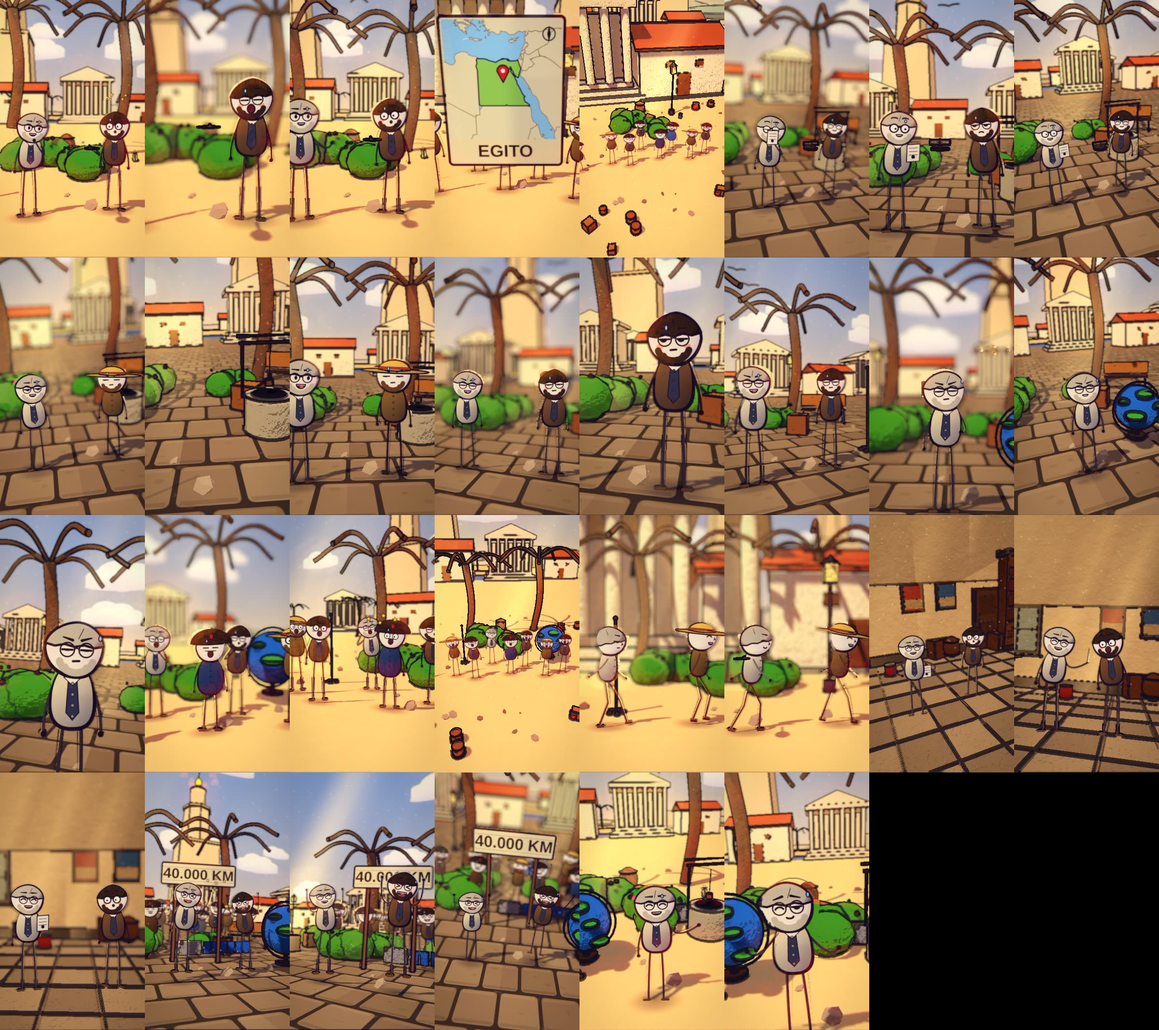
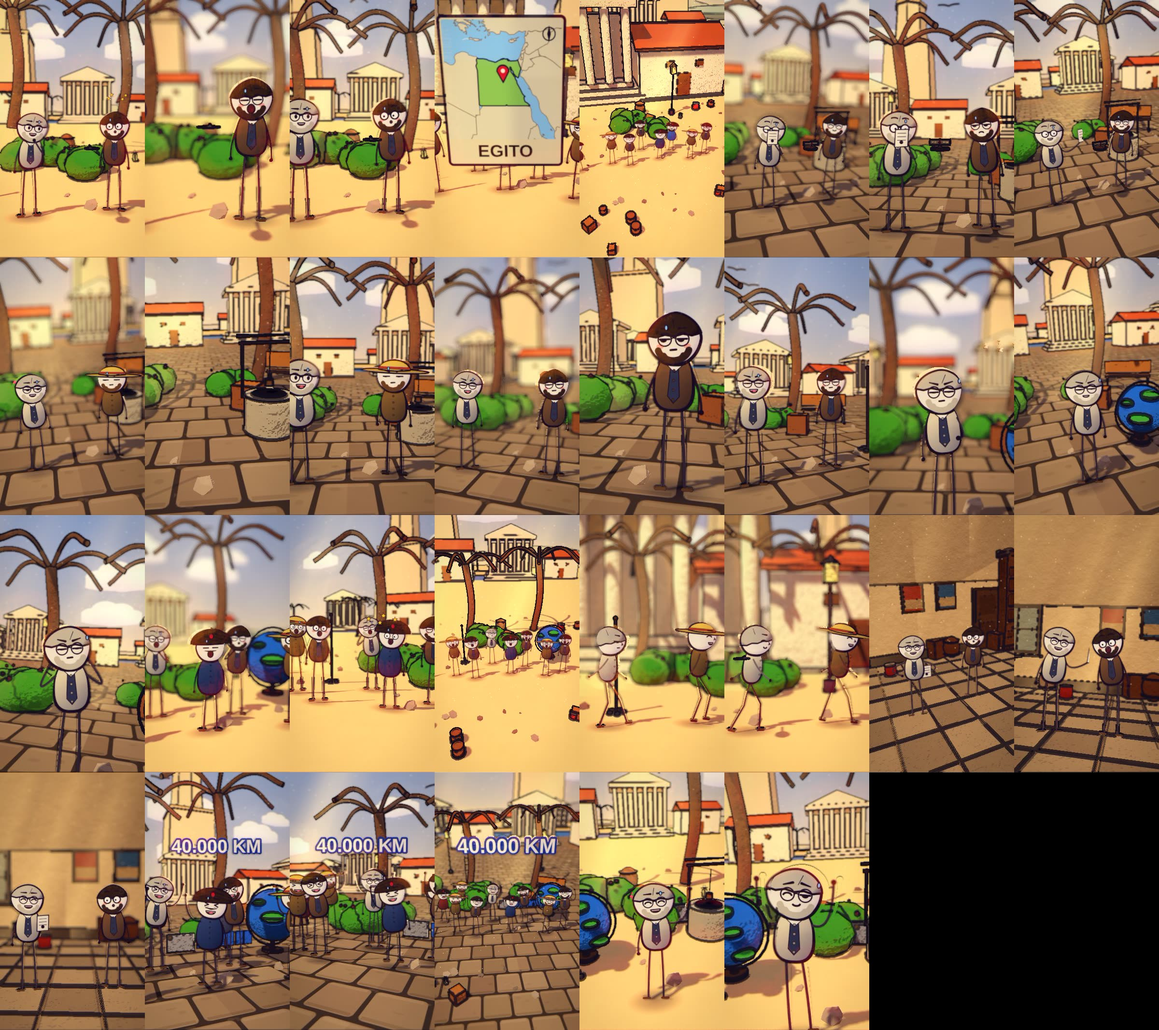
pia e selfie enviados; eratostenes aprovado
Claude-Session: https://claude.ai/code/session_01WNYYpRLbWz2wGKzkvYWt5N

diff --git a/ferramenta-shorts/stories/eratostenes240/fit.js b/ferramenta-shorts/stories/eratostenes240/fit.js
@@ -1,1 +1,1 @@
-SPEC.fit = {"b5":1.404,"b5~1":1.404,"b6":1.12};
+SPEC.fit = {"b5":1.254,"b5~1":1.254,"b5~2":1.254,"b6":1.12,"b9":1.12};

diff --git a/ferramenta-shorts/stories/eratostenes240/revisao_storyboard.md b/ferramenta-shorts/stories/eratostenes240/revisao_storyboard.md
@@ -1,11 +1,11 @@
-b0: OK - um homem mediu o tamanho do planeta usando só uma vara e a sombra dela, Eratóstenes examinando com assistente em Alexandria
-b1: OK - por volta de duzentos e quarenta antes de Cristo, Eratóstenes bibliotecário da cidade de Alexandria no Egito, mapa do Egito e farol
-b2: OK - ele leu num papiro que em Siena ao meio-dia de verão o sol iluminava o fundo de um poço, papiro na mão e poço de pedra
-b3: OK - o sol estava bem em cima e nada fazia sombra, poço iluminado com os dois personagens ao lado
-b4: OK - em Alexandria no mesmo dia uma vara fincada no solo fazia uma sombra pequena, vara no chão e sombra
-b5: OK - Eratóstenes pensou se a Terra fosse plana as duas sombras seriam iguais, close pensativo com globo ao lado
-b6: OK - a sombra era diferente e isso só podia acontecer se a Terra fosse curva, multidão de curiosos com globo
-b7: OK - ele mediu o ângulo da sombra e contou os passos entre as duas cidades, vara e caminhada de passos
-b8: OK - com uma conta simples encontrou um número muito perto do tamanho real da Terra, conversa na sala com cálculo
-b9: OK - tudo isso aconteceu mais de dois mil anos atrás sem satélite e sem computador, placa 40.000 KM e globo
-b10: OK - uma vara e um poço fizeram o trabalho de um satélite, close de Eratóstenes com poço e globo
+b0: OK - um homem mediu o tamanho do planeta usando só uma vara e a sombra dela, Eratóstenes e assistente em praça de Alexandria com palmeiras e templo ao fundo
+b1: OK - por volta de duzentos e quarenta antes de Cristo Eratóstenes era o bibliotecário da cidade de Alexandria no Egito, mapa do Egito e multidão na praça
+b2: OK - ele leu num papiro que em Siena ao meio-dia de verão o sol iluminava o fundo de um poço, papiro na mão e poço de pedra ao lado
+b3: OK - o sol estava bem em cima e nada fazia sombra, personagem de chapéu de palha ao lado do poço
+b4: OK - em Alexandria no mesmo dia uma vara fincada no solo fazia uma sombra pequena, Eratóstenes com a vara no chão da praça
+b5: OK - Eratóstenes pensou se a Terra fosse plana as duas sombras seriam iguais, close pensativo com o globo ao lado
+b6: OK - a sombra era diferente e isso só podia acontecer se a Terra fosse curva, multidão de curiosos com o globo
+b7: OK - ele mediu o ângulo da sombra e contou os passos entre as duas cidades, dois personagens caminhando na praça
+b8: OK - com uma conta simples encontrou um número muito perto do tamanho real da Terra, conversa em sala com papel
+b9: OK - tudo isso aconteceu mais de dois mil anos atrás sem satélite e sem computador, placa 40.000 KM com globo e multidão
+b10: OK - uma vara e um poço fizeram o trabalho de um satélite, Eratóstenes sorrindo com o poço e o globo
